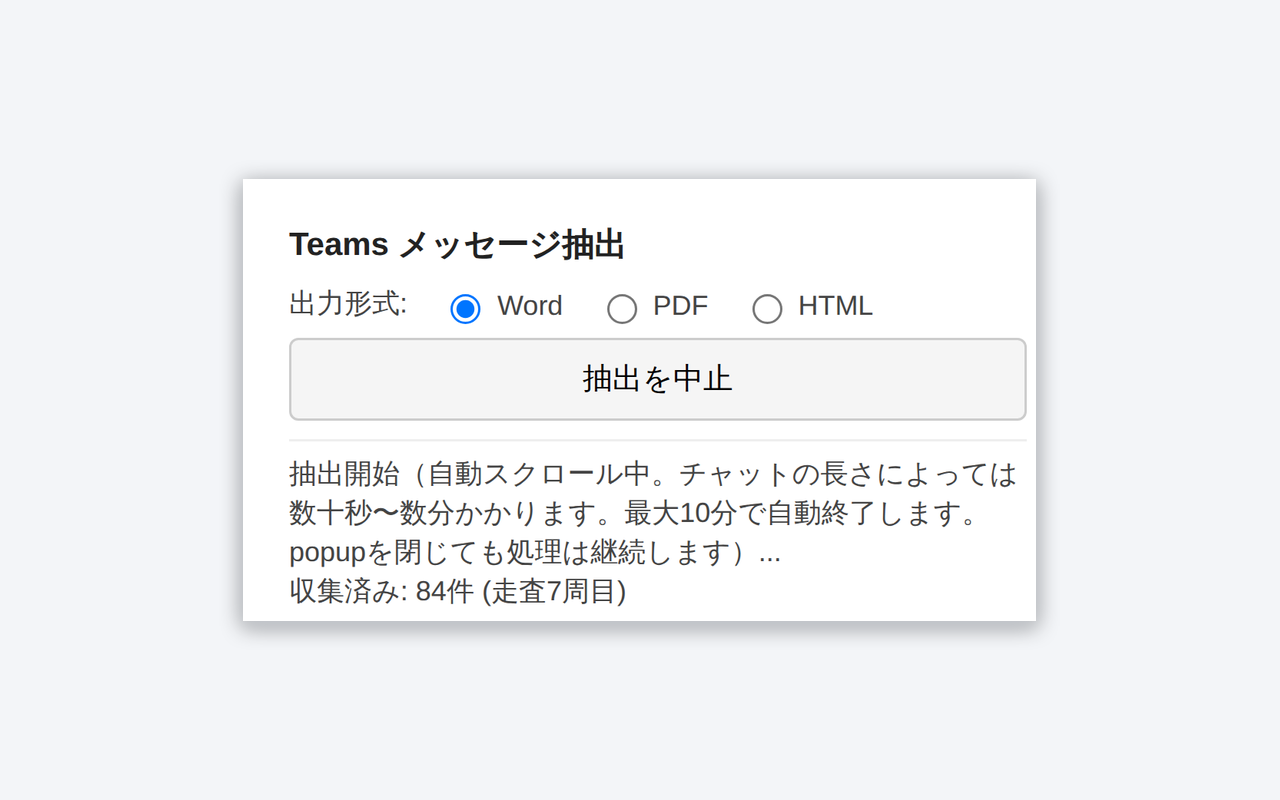
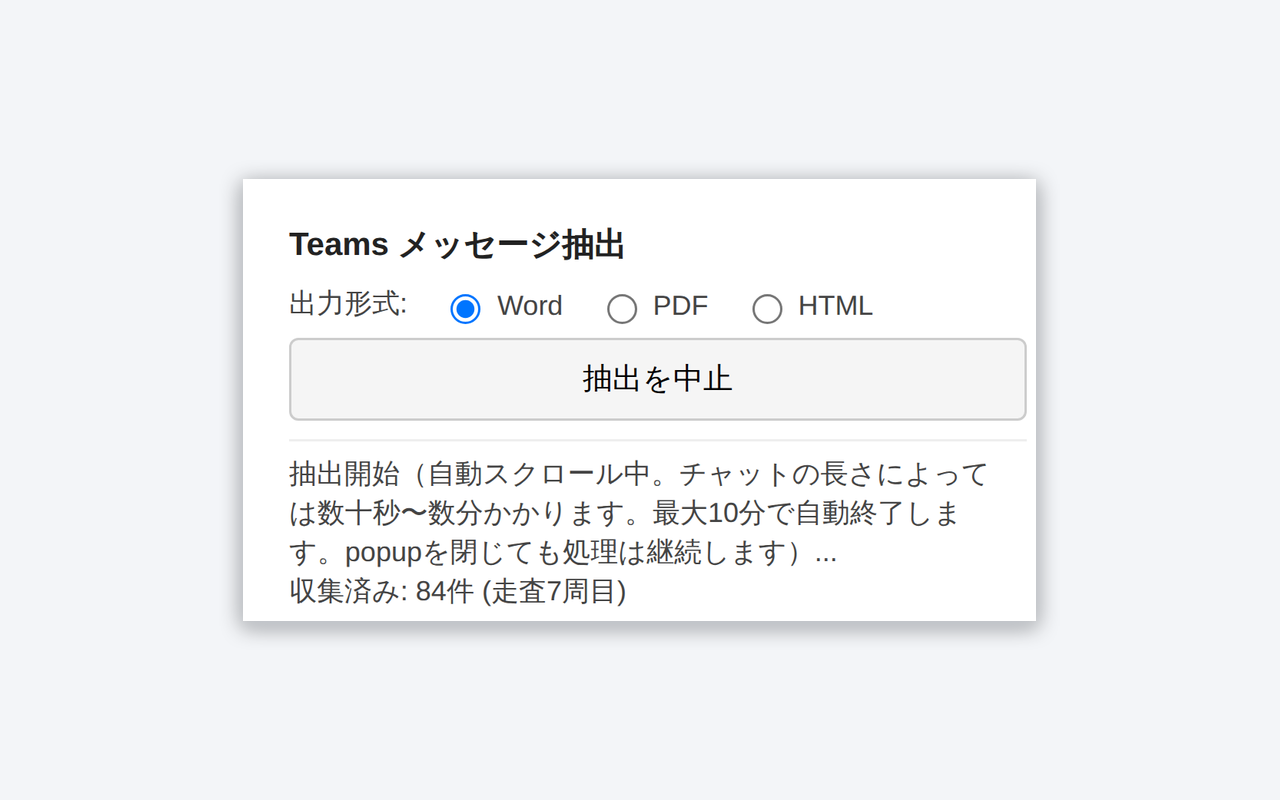
ポップアップの幅が途中で変わらないよう固定
ログが増えて縦スクロールバーが出ると、Windowsのように幅を持つ
スクロールバーでは表示幅がその分（約15px）狭まり、ポップアップの
見た目の幅が抽出の途中で変わっていた。

- #status に scrollbar-gutter: stable を指定し、スクロールバーの
  有無にかかわらず領域を確保して幅を一定にする
- 折り返せない長いURL・ファイル名で横に広がらないよう
  overflow-wrap: anywhere を指定
- 万一はみ出す要素があってもポップアップが横に広がらないよう
  body に overflow-x: hidden を指定

スクロールバー有無の2状態で表示幅が305pxで一致することを
Chromiumでの実測により確認（修正前は0→15pxずれる）。
スクリーンショットも修正後のUIで撮り直した。

Claude-Session: https://claude.ai/code/session_01Lr1vjG5ZZG79eurmsku7GW

Changed region(s): [[0.2188, 0.625, 0.75, 0.7188]]

diff --git a/popup.html b/popup.html
@@ -5,12 +5,16 @@
   <meta charset="UTF-8" />
   <title>Teams メッセージ抽出</title>
   <style>
+    /* ポップアップの横幅は中身の幅で決まるため、はみ出す要素があると
+       途中で勝手に広がる。widthを固定したうえで、万一はみ出しても
+       横に広がらないようoverflow-xで抑える */
     body {
       width: 320px;
       font-family: -apple-system, "Segoe UI", sans-serif;
       padding: 12px;
       font-size: 13px;
       color: #222;
+      overflow-x: hidden;
     }
 
     h1 {
@@ -38,13 +42,21 @@
       cursor: not-allowed;
     }
 
+    /* ログが増えて縦スクロールバーが出ると、Windowsのように幅を持つ
+       スクロールバーでは表示幅がその分（約15px）狭まり、ポップアップの
+       見た目の幅が途中で変わってしまう。scrollbar-gutterで最初から
+       スクロールバーの領域を確保し、有無にかかわらず幅を一定にする。
+       あわせて、折り返せない長いURL・ファイル名で横に広がらないよう
+       overflow-wrapで強制的に折り返す */
     #status {
       margin-top: 8px;
       white-space: pre-wrap;
+      overflow-wrap: anywhere;
       font-size: 12px;
       color: #444;
       max-height: 140px;
       overflow-y: auto;
+      scrollbar-gutter: stable;
       border-top: 1px solid #eee;
       padding-top: 6px;
     }
